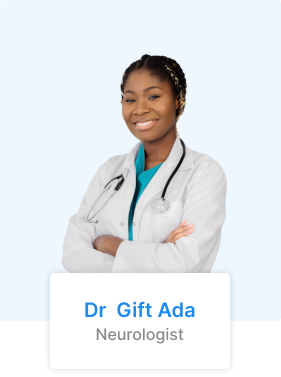
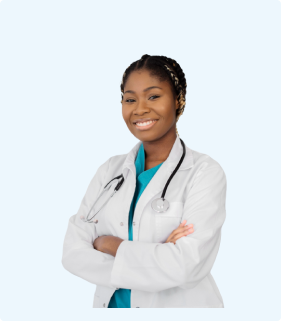
worked on our doctores section

Changed region(s): [[0.1993, 0.1246, 0.8256, 0.9657]]

diff --git a/index.html b/index.html
@@ -62,7 +62,7 @@
             <!-- Container for Text -->
             <div class="container mx-auto p-5">
                 <div class=" grid grid-cols-1 md:grid-cols-2 lg:grid-cols-2">
-                    <div class="p-4 mt-24 lg:mt-72">
+                    <div class="mt-24 lg:mt-72">
                         <div class="flex items-center">
                             <div class="border border-[#76B6EF] w-10 mr-4 px-8"></div>
                             <h2 class="text-[#76B6EF] lg:text-xl text-lg">A Hospital Of experts</h2>
@@ -73,7 +73,7 @@
                         <a href="#" class="bg-[#1D8AEC] text-[#ffffff] p-3 rounded-md">Book Appointment</a>
                        </div>
                     </div>
-                    <div class="p-4 lg:mt-36 mt-5">
+                    <div class="lg:mt-36 mt-5">
                         <img src="/img/image 1.png" width="731px" alt="">
                     </div>
                 </div>
@@ -244,10 +244,42 @@
             <!-- Additional required wrapper -->
             <div class="swiper-wrapper">
               <!-- Slides -->
-              <div class="swiper-slide p-10 flex items-center justify-center"><img src="/img/doc 1.png" alt=""></div>
-              <div class="swiper-slide p-10 flex items-center justify-center"><img src="/img/doc 2.png" alt=""></div>
-              <div class="swiper-slide p-10 flex items-center justify-center"><img src="/img/doc 3.png" alt=""></div>
-              <div class="swiper-slide p-10 flex items-center justify-center"><img src="/img/doc 4.png" alt=""></div>
+              <div class="swiper-slide p-10 flex items-center justify-center">
+                <div class="relative">
+                    <img src="/img/doc 1 (1).png" alt="Your Image" class="w-full h-auto">
+                    <div class="absolute -bottom-8 left-0 right-0 bg-[#FFFFFF] p-5 px-7 py-2 text-center w-fit mx-auto shadow-lg">
+                      <h1 class="text-[#1D8AEC] font-semibold text-lg">Dr Josh Efe</h1>
+                      <p class="text-[#12121280]">Cardiologist</p>
+                    </div>
+                </div>
+              </div>
+              <div class="swiper-slide p-10 flex items-center justify-center">
+                <div class="relative">
+                    <img src="/img/doc 2.png" alt="Your Image" class="w-full h-auto">
+                    <div class="absolute -bottom-8 left-0 right-0 bg-[#FFFFFF] p-5 px-7 py-2 text-center w-fit mx-auto shadow-lg">
+                      <h1 class="text-[#1D8AEC] font-semibold text-lg">Dr Gift Ada</h1>
+                      <p class="text-[#12121280]">Neurologist</p>
+                    </div>
+                </div>
+              </div>
+              <div class="swiper-slide p-10 flex items-center justify-center">
+                <div class="relative">
+                    <img src="/img/doc 3.png" alt="Your Image" class="w-full h-auto">
+                    <div class="absolute -bottom-8 left-0 right-0 bg-[#FFFFFF] p-5 px-7 py-2 text-center w-fit mx-auto shadow-lg">
+                      <h1 class="text-[#1D8AEC] font-semibold text-lg">Dr Max Brad</h1>
+                      <p class="text-[#12121280]">Dentist</p>
+                    </div>
+                </div>
+              </div>
+              <div class="swiper-slide p-10 flex items-center justify-center">
+                <div class="relative">
+                    <img src="/img/doc 4.png" alt="Your Image" class="w-full h-auto">
+                    <div class="absolute -bottom-8 left-0 right-0 bg-[#FFFFFF] p-5 px-7 py-2 text-center w-fit mx-auto shadow-lg">
+                      <h1 class="text-[#1D8AEC] font-semibold text-lg">Dr Sandra Kim</h1>
+                      <p class="text-[#12121280]">Cardiologist</p>
+                    </div>
+                </div>
+              </div>
             </div>
             <!-- If we need navigation buttons -->
             <div class="swiper-button-prev text-[#121212CC] lg:ml-auto -ml-3"></div>
@@ -259,7 +291,7 @@
         <div class="container mx-auto p-4">
             <div>
                 <h1 class="text-lg text-[#121212CC] font-semibold text-center">Latest News</h1>
-                <h2 class="text-3xl lg:text-5xl text-[#1D8AEC] font-semibold mt-3 text-center">Latest Post & Articles</h2>
+                <h2 class="text-2xl lg:text-5xl text-[#1D8AEC] font-semibold mt-3 text-center">Latest Post & Articles</h2>
             </div>
             <div class="grid grid-cols-1 md:grid-cols-3 lg:grid-cols-3 gap-2 mt-5">
                 <div class="p-4">
@@ -336,6 +368,9 @@
                 </div>
             </div>
         </div>
+    </div>
+    <div>
+        <div class="container mx-auto p-4"></div>
     </div>
     
     
